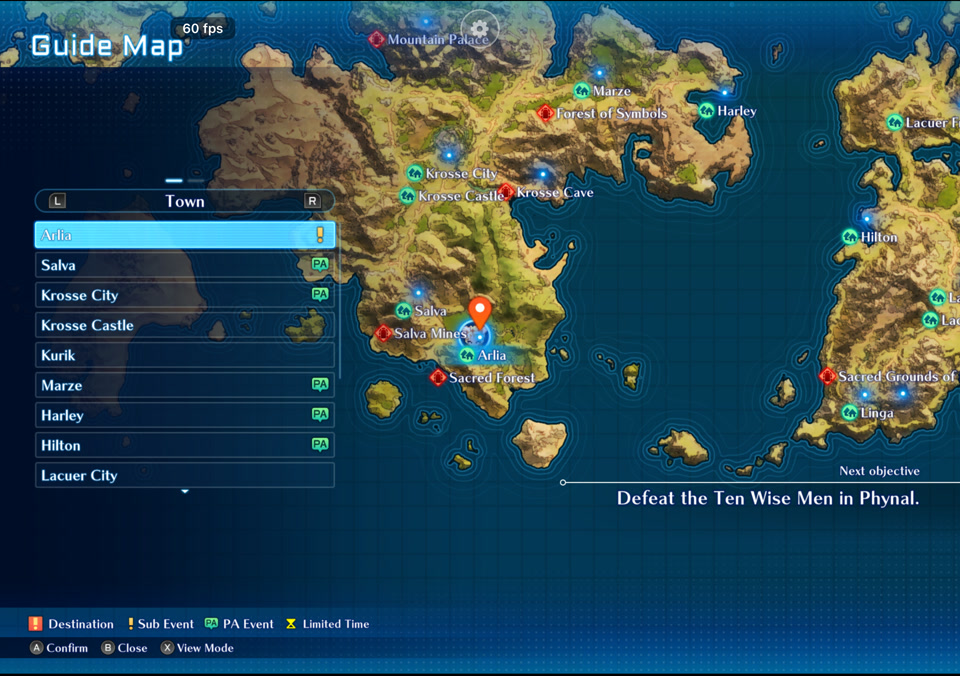
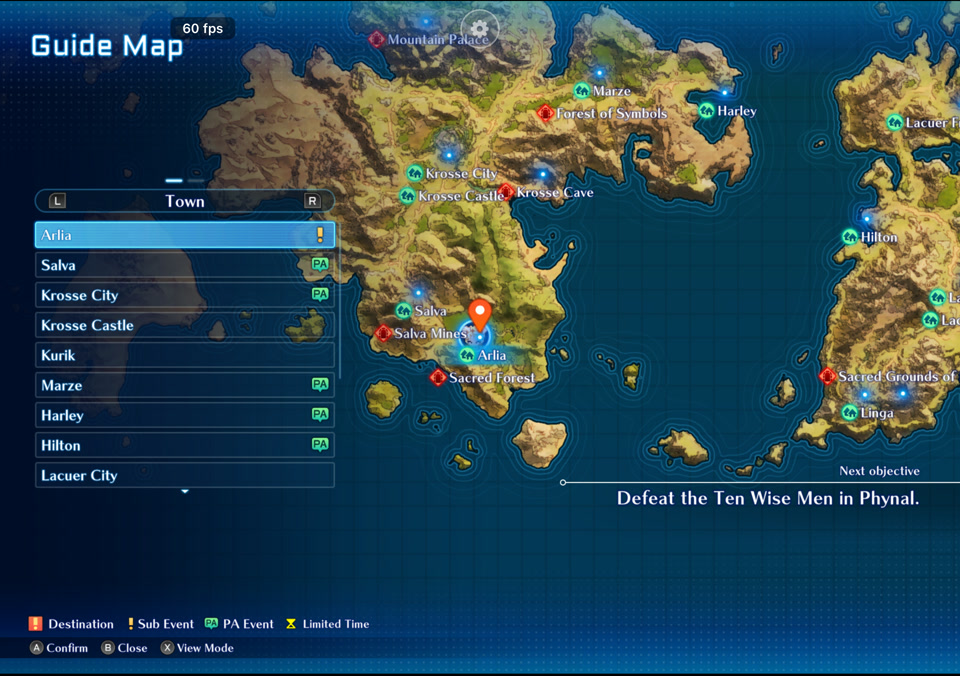
Replace Guide Map shots with verified backdrop seam fix

diff --git a/README.md b/README.md
@@ -38,7 +38,7 @@ Westa’s reply in the same scene. This checks the opposite portrait anchor with
 
 ## Guide Map
 
-Same Arlia pin and destination list on the full-screen map. The map viewport shows more vertically and the title, icon legend and footer remain at their respective edges.
+Same Arlia pin and destination list on the full-screen map. The map viewport shows more vertically, and the left-side tint now reaches the top and bottom edges without a seam. The map scale and destination list are unchanged. Compare the [earlier MacBook capture](https://raw.githubusercontent.com/pixelrally/nxnative/1932a986233491c3218e977265a9e20788b8d490/guide-map-16x10.jpg) and [earlier Duo capture](https://raw.githubusercontent.com/pixelrally/nxnative/1932a986233491c3218e977265a9e20788b8d490/guide-map-duo-device.jpg).
 
 | Original 16:9 | MacBook 16:10 | iPhone Duo 1.43:1 (physical) |
 | --- | --- | --- |
